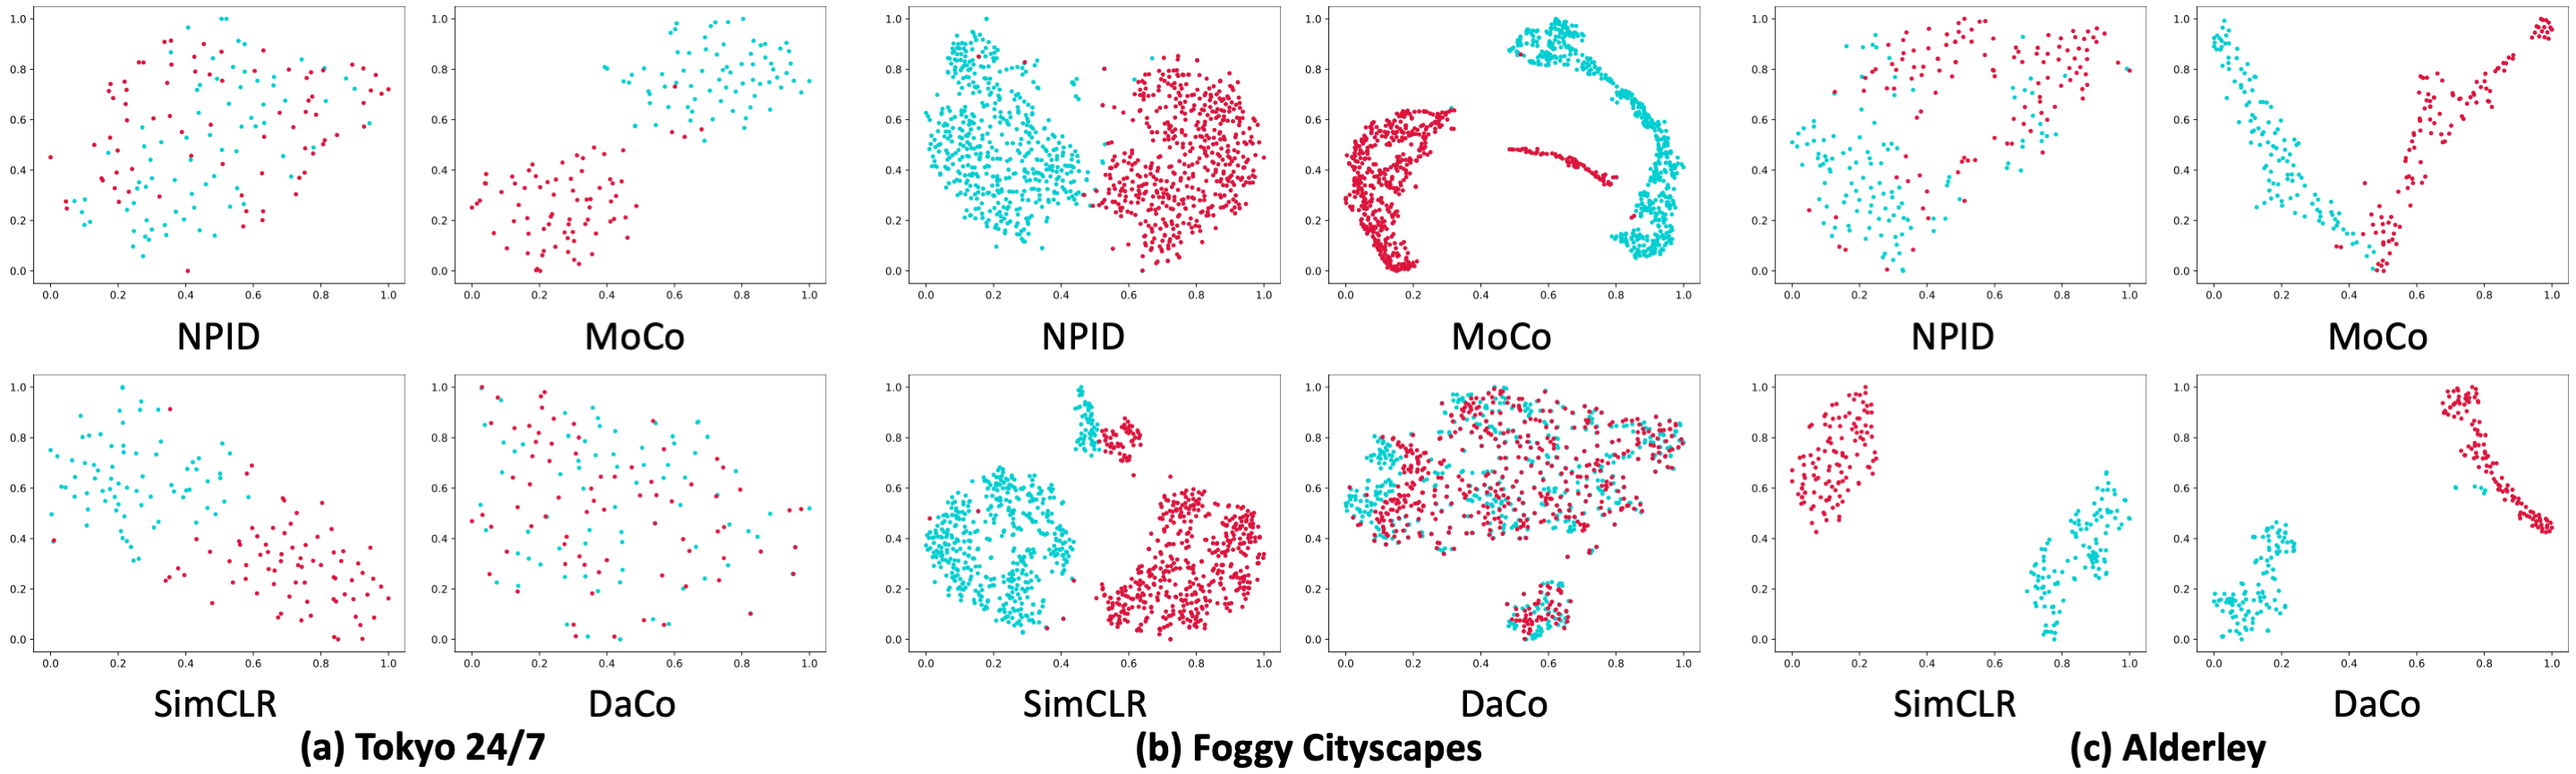
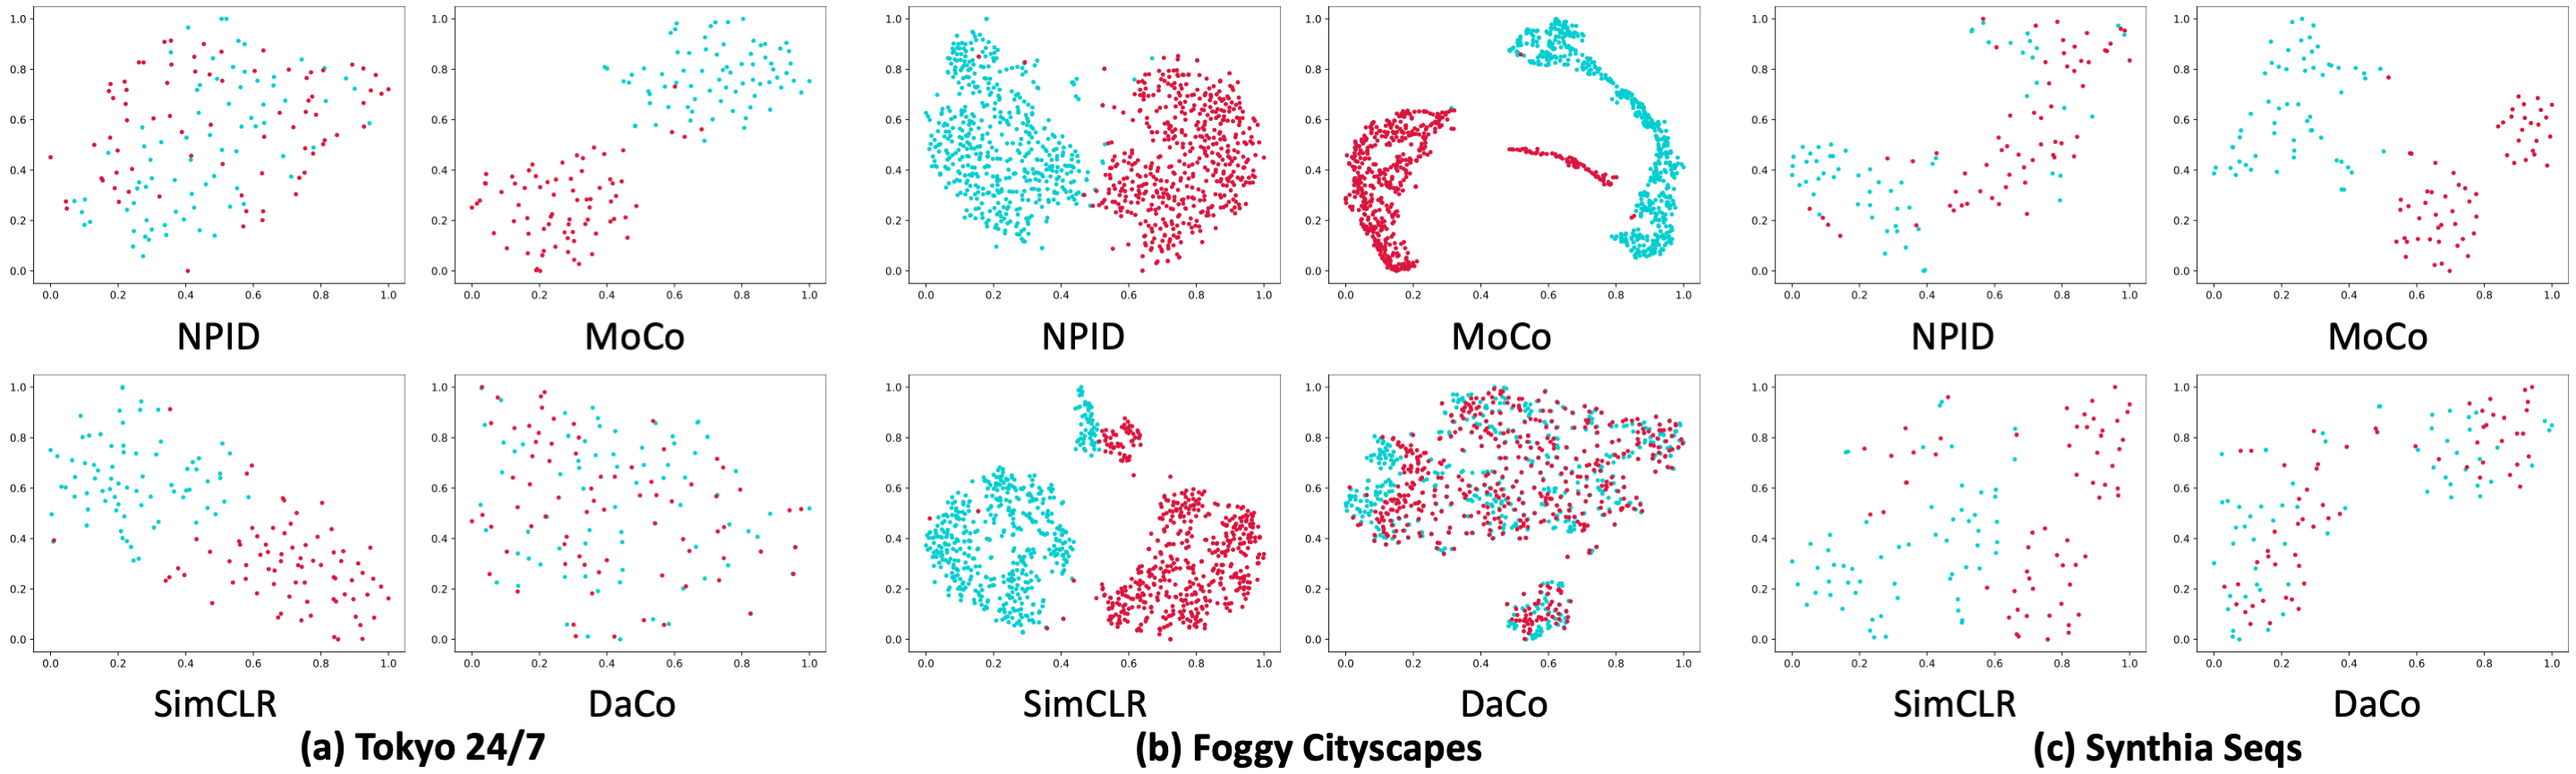
update Synthia Seqs results

diff --git a/README.md b/README.md
@@ -16,12 +16,11 @@ conda install pytorch=1.7.0 torchvision torchaudio cudatoolkit=11.0 -c pytorch
 
 ## Dataset
 
-[Tokyo 24/7](http://www.ok.ctrl.titech.ac.jp/~torii/project/247/)
-, [Cityscapes FoggyDBF](https://www.cityscapes-dataset.com)
-and [Synthia](https://synthia-dataset.net/downloads/) datasets are used in this repo, you could download these datasets
-from official websites, or download them from [MEGA](https://mega.nz/folder/kx53iYoL#u_Zc6ogPokaTRVM6qYn3ZA). The data
-should be rearranged, please refer the paper to acquire the details of `train/val` split. The data directory structure
-is shown as follows:
+[Tokyo 24/7](http://www.ok.ctrl.titech.ac.jp/~torii/project/247/),
+[Cityscapes FoggyDBF](https://www.cityscapes-dataset.com) and [Synthia Seqs](https://synthia-dataset.net/downloads/)
+datasets are used in this repo, you could download these datasets from official websites, or download them from
+[MEGA](https://mega.nz/folder/kx53iYoL#u_Zc6ogPokaTRVM6qYn3ZA). The data should be rearranged, please refer the paper to
+acquire the details of `train/val` split. The data directory structure is shown as follows:
 
  ```
 ├──tokyo
@@ -276,7 +275,7 @@ and `weight decay` is `1e-6`. `batch size` is `16` for `daco`, `32` for `simclr`
 </tbody>
 </table>
 
-### Synthia
+### Synthia Seqs
 
 <table>
 <thead>
@@ -305,66 +304,66 @@ and `weight decay` is `1e-6`. `batch size` is `16` for `daco`, `32` for `simclr`
 <tbody>
   <tr>
     <td align="center">NPID</td>
-    <td align="center">34.20</td>
-    <td align="center">46.00</td>
-    <td align="center">55.20</td>
-    <td align="center">64.80</td>
-    <td align="center">38.40</td>
-    <td align="center">46.60</td>
-    <td align="center">58.00</td>
-    <td align="center">68.80</td>
-    <td align="center">4.20</td>
-    <td align="center">6.00</td>
-    <td align="center">7.90</td>
-    <td align="center">11.90</td>
+    <td align="center">6.67</td>
+    <td align="center">6.67</td>
+    <td align="center">8.33</td>
+    <td align="center">11.67</td>
+    <td align="center">5.00</td>
+    <td align="center">6.67</td>
+    <td align="center">8.33</td>
+    <td align="center">13.33</td>
+    <td align="center">2.50</td>
+    <td align="center">5.00</td>
+    <td align="center">5.00</td>
+    <td align="center">6.67</td>
     <td align="center"><a href="https://pan.baidu.com/s/1oUbOqWIJaJbtUDqcqmklgw">bbiv</a></td>
   </tr>
   <tr>
     <td align="center">MoCo</td>
-    <td align="center">0.40</td>
-    <td align="center">0.80</td>
-    <td align="center">1.00</td>
-    <td align="center">2.20</td>
-    <td align="center">0.40</td>
-    <td align="center">0.60</td>
-    <td align="center">1.00</td>
-    <td align="center">1.80</td>
-    <td align="center">0.00</td>
-    <td align="center">0.00</td>
-    <td align="center">0.10</td>
-    <td align="center">0.10</td>
+    <td align="center">10.00</td>
+    <td align="center">11.67</td>
+    <td align="center">21.67</td>
+    <td align="center">26.67</td>
+    <td align="center">10.00</td>
+    <td align="center">11.67</td>
+    <td align="center">18.33</td>
+    <td align="center">33.33</td>
+    <td align="center">1.67</td>
+    <td align="center">2.50</td>
+    <td align="center">2.50</td>
+    <td align="center">5.00</td>
     <td align="center"><a href="https://pan.baidu.com/s/1iR0_2kL9wq44mKM_-sfr_w">ma2a</a></td>
   </tr>
   <tr>
     <td align="center">SimCLR</td>
-    <td align="center">43.00</td>
-    <td align="center">55.60</td>
-    <td align="center">67.20</td>
-    <td align="center">76.60</td>
-    <td align="center">69.40</td>
-    <td align="center">80.40</td>
-    <td align="center">89.20</td>
-    <td align="center">94.00</td>
-    <td align="center">2.30</td>
-    <td align="center">3.70</td>
-    <td align="center">5.20</td>
-    <td align="center">7.80</td>
+    <td align="center">25.00</td>
+    <td align="center">35.00</td>
+    <td align="center">40.00</td>
+    <td align="center">53.33</td>
+    <td align="center">20.00</td>
+    <td align="center">26.67</td>
+    <td align="center">41.67</td>
+    <td align="center">48.33</td>
+    <td align="center">6.67</td>
+    <td align="center">9.17</td>
+    <td align="center">15.83</td>
+    <td align="center">24.17</td>
     <td align="center"><a href="https://pan.baidu.com/s/1ogY5eC1eb3IHemOsVO-ieg">hdhn</a></td>
   </tr>
   <tr>
     <td align="center">DaCo</td>
-    <td align="center"><b>96.40</b></td>
-    <td align="center"><b>99.00</b></td>
-    <td align="center"><b>99.60</b></td>
-    <td align="center"><b>99.80</b></td>
-    <td align="center"><b>95.60</b></td>
-    <td align="center"><b>97.80</b></td>
-    <td align="center"><b>99.40</b></td>
-    <td align="center"><b>99.80</b></td>
-    <td align="center"><b>47.70</b></td>
-    <td align="center"><b>65.30</b></td>
-    <td align="center"><b>80.10</b></td>
-    <td align="center"><b>91.00</b></td>
+    <td align="center"><b>46.67</b></td>
+    <td align="center"><b>66.67</b></td>
+    <td align="center"><b>75.00</b></td>
+    <td align="center"><b>88.33</b></td>
+    <td align="center"><b>45.00</b></td>
+    <td align="center"><b>50.00</b></td>
+    <td align="center"><b>70.00</b></td>
+    <td align="center"><b>86.67</b></td>
+    <td align="center"><b>28.33</b></td>
+    <td align="center"><b>39.17</b></td>
+    <td align="center"><b>50.00</b></td>
+    <td align="center"><b>67.50</b></td>
     <td align="center"><a href="https://pan.baidu.com/s/1ForxWPJ_k3Eq_EXgLtpHCA">azvx</a></td>
   </tr>
 </tbody>
@@ -380,7 +379,7 @@ and `weight decay` is `1e-6`. `batch size` is `16` for `daco`, `32` for `simclr`
 
 ![cityscapes](result/cityscapes.png)
 
-### Synthia
+### Synthia Seqs
 
 ![synthia](result/synthia.png)
 
